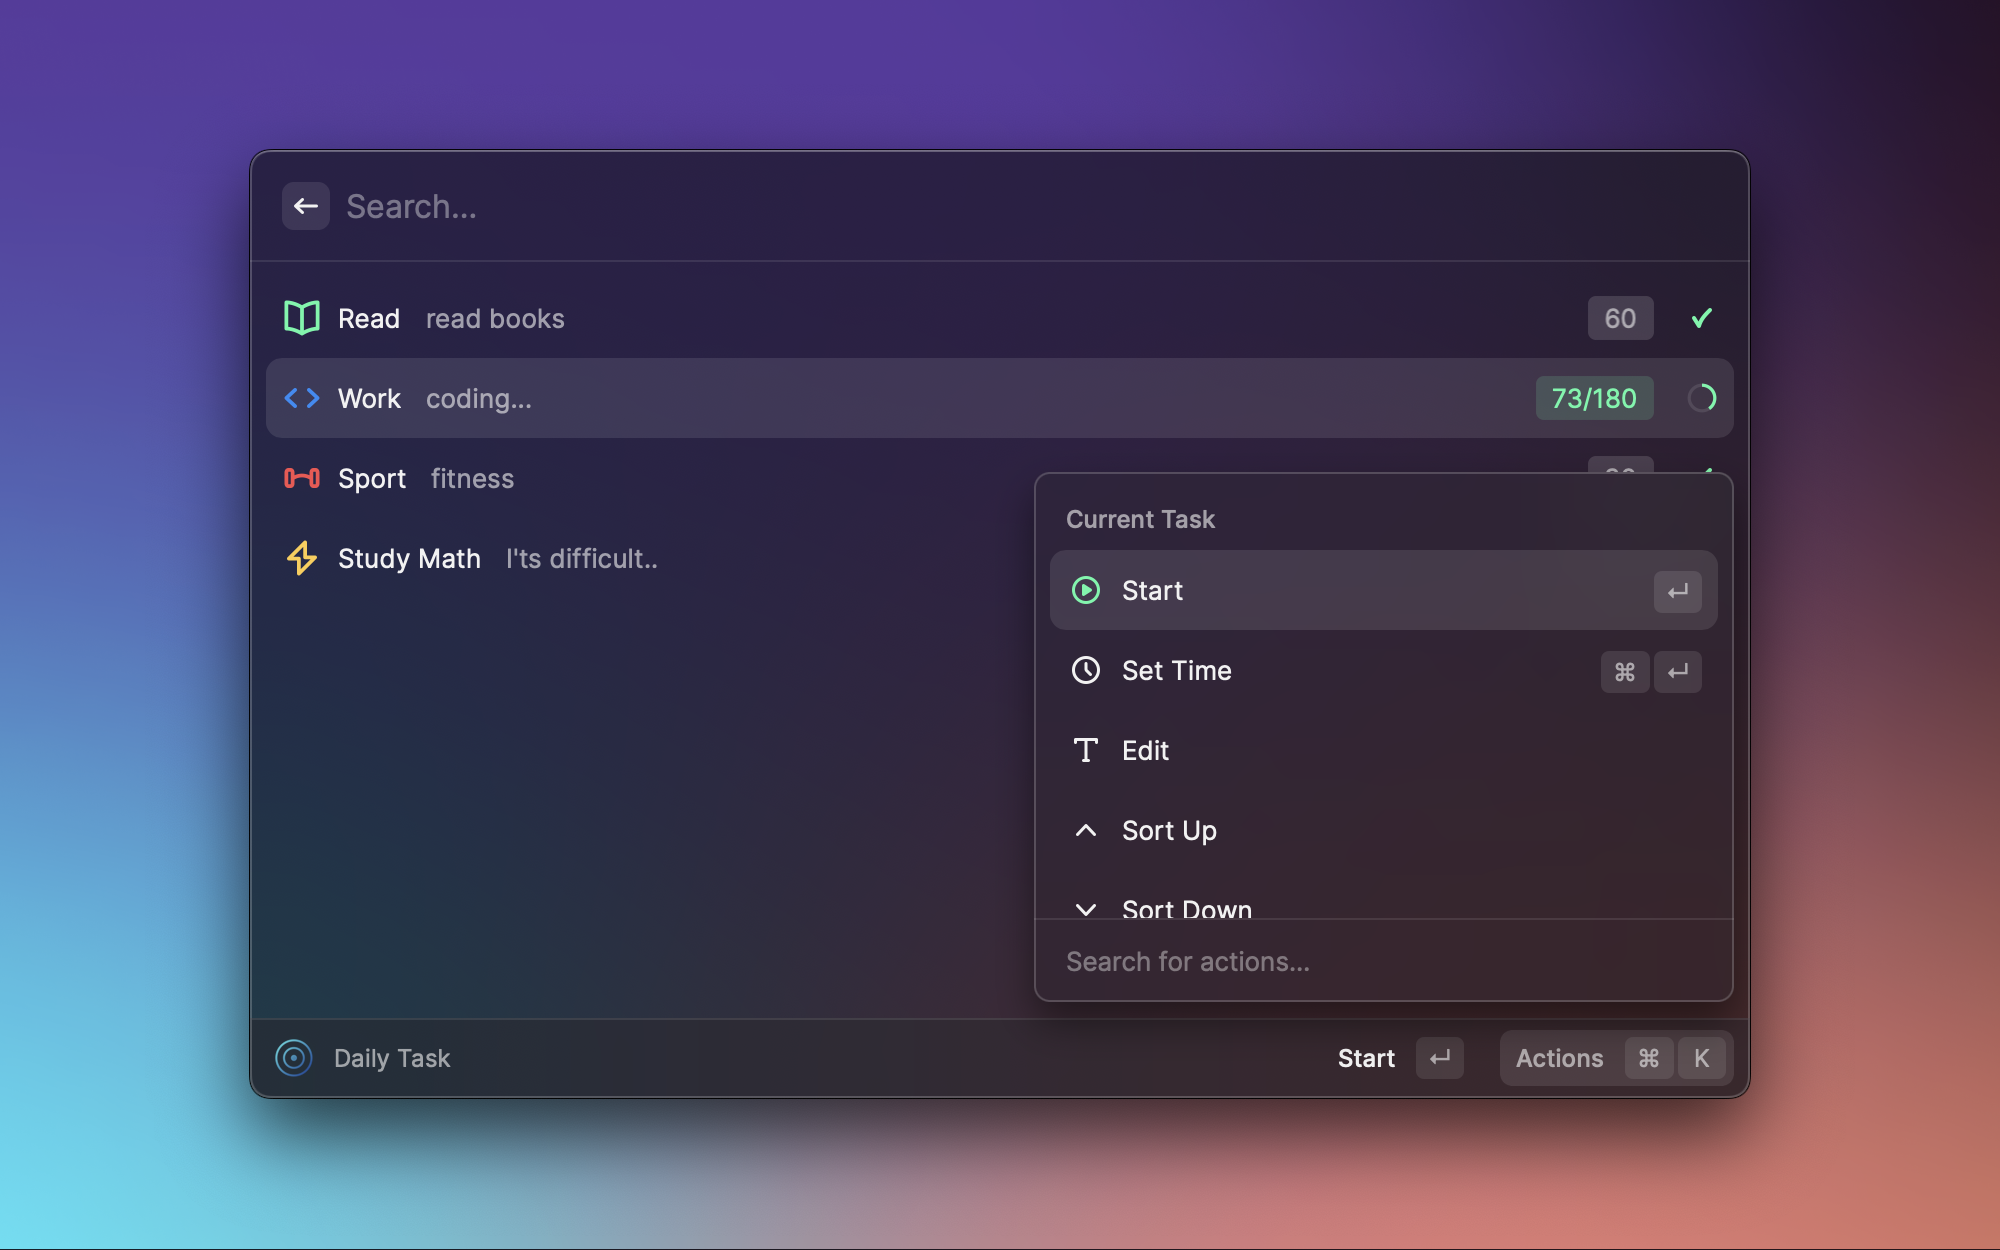
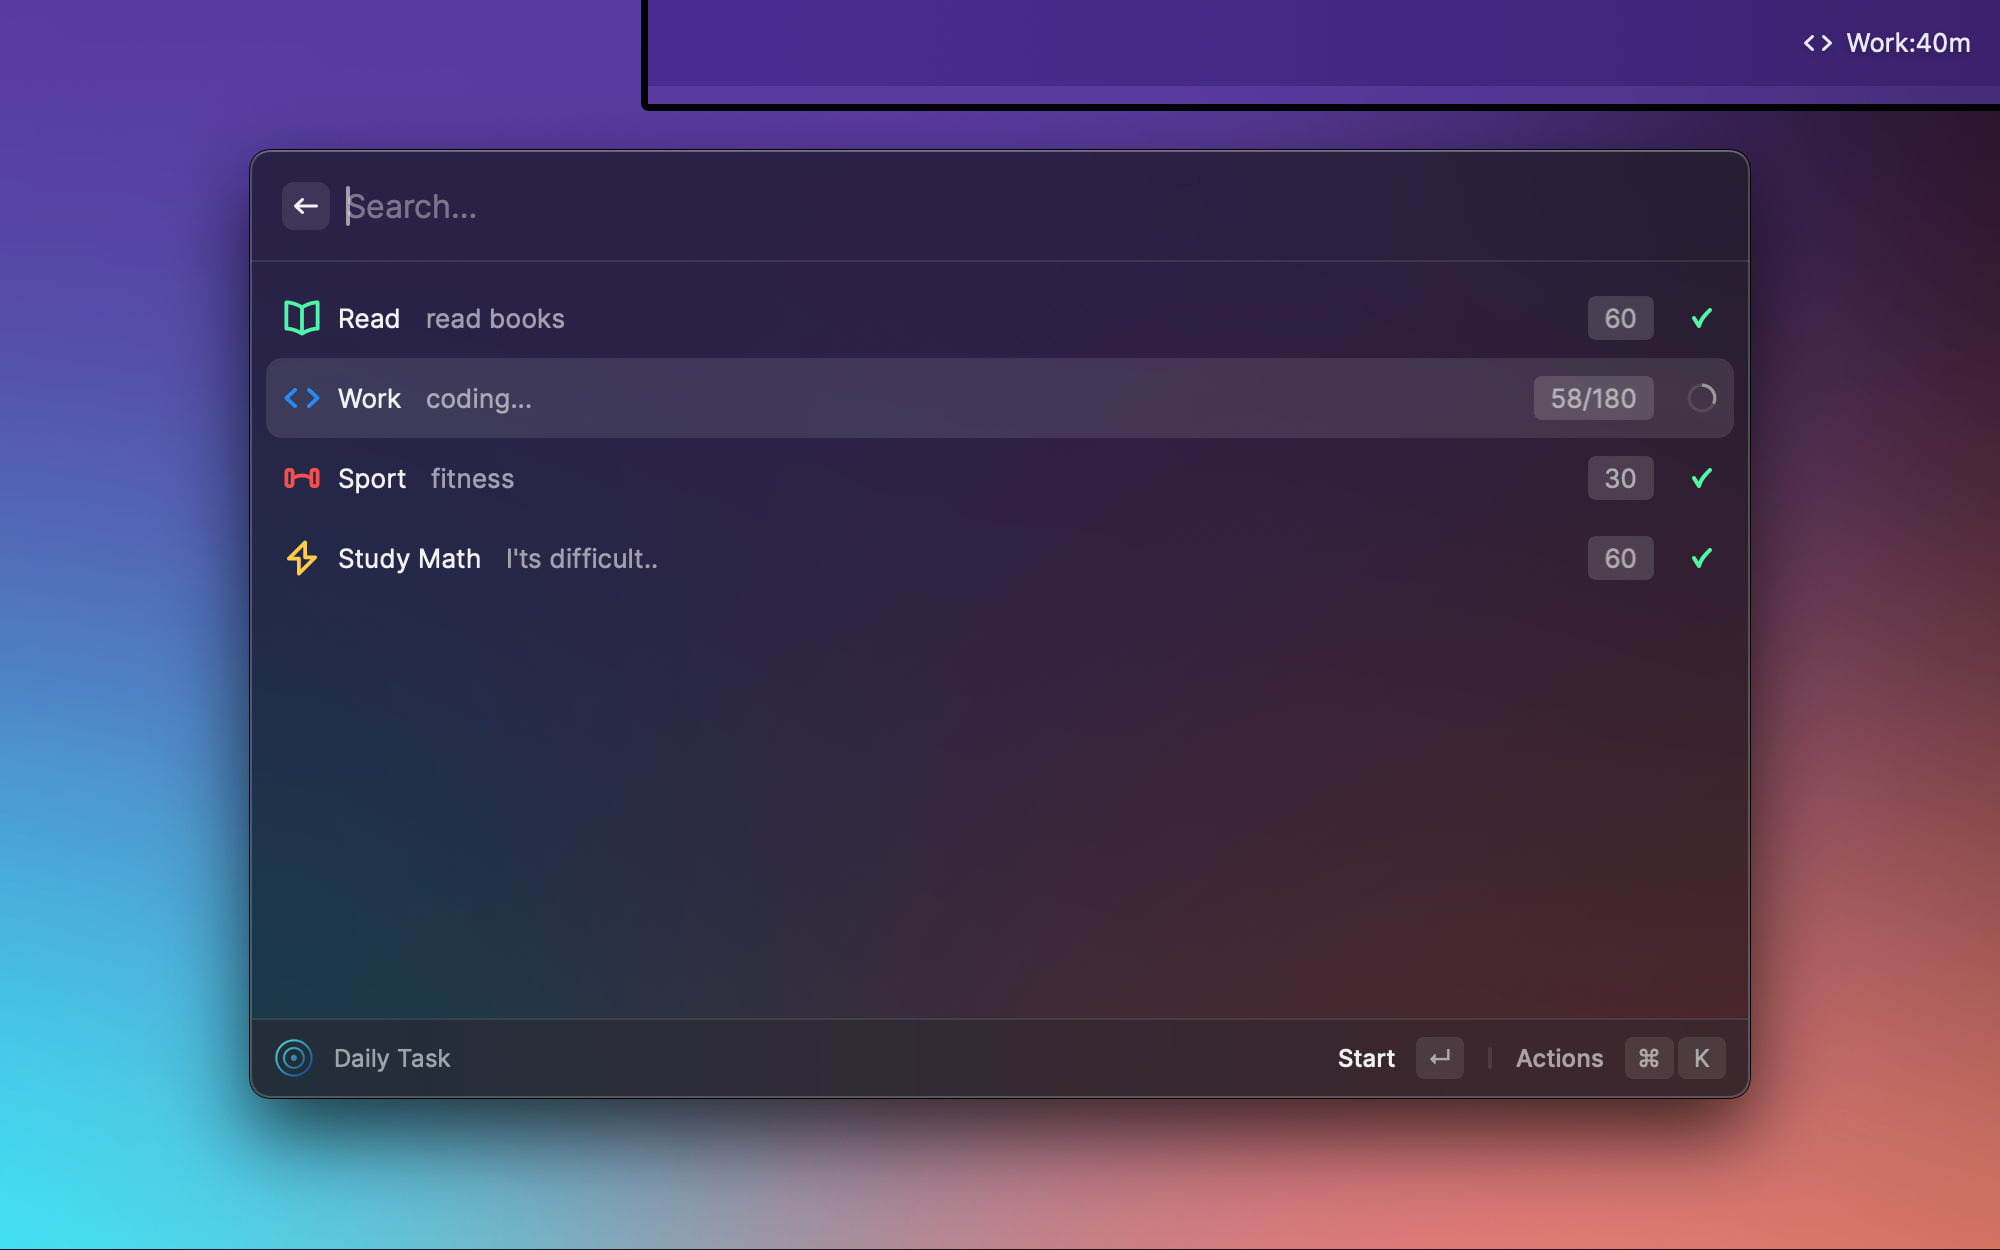
cmt

diff --git a/src/index.tsx b/src/index.tsx
@@ -9,6 +9,7 @@ import {
   LaunchType,
   confirmAlert,
   closeMainWindow,
+  popToRoot,
 } from "@raycast/api";
 import { useAtom } from "jotai";
 import { getProgressIcon } from "@raycast/utils";
@@ -50,6 +51,7 @@ export default function Command() {
       name: "menubar",
       type: LaunchType.UserInitiated,
     });
+    popToRoot({ clearSearchBar: true });
     closeMainWindow();
   };
   const onSetTime = (id: string) => {
@@ -167,6 +169,7 @@ export default function Command() {
               {!task.disabled && (
                 <Action
                   title="Set Time"
+                  shortcut={{ modifiers: ["opt"], key: "t" }}
                   icon={{ source: Icon.Clock }}
                   onAction={() => {
                     onSetTime(task.id);
@@ -175,6 +178,7 @@ export default function Command() {
               )}
               <Action
                 title="Edit"
+                shortcut={{ modifiers: ["opt"], key: "e" }}
                 icon={{ source: Icon.Text }}
                 onAction={() => {
                   onEdit(task.id);
@@ -183,6 +187,7 @@ export default function Command() {
               {index != 0 && (
                 <Action
                   title="Sort Up"
+                  shortcut={{ modifiers: ["ctrl", "opt"], key: "arrowUp" }}
                   icon={{ source: Icon.ChevronUp }}
                   onAction={() => {
                     onSort(task.id, "up");
@@ -192,6 +197,7 @@ export default function Command() {
               {index != DATA.length - 1 && (
                 <Action
                   title="Sort Down"
+                  shortcut={{ modifiers: ["ctrl", "opt"], key: "arrowDown" }}
                   icon={{ source: Icon.ChevronDown }}
                   onAction={() => {
                     onSort(task.id, "down");
@@ -200,6 +206,7 @@ export default function Command() {
               )}
               <Action
                 title="Remove"
+                shortcut={{ modifiers: ["opt"], key: "x" }}
                 icon={{ source: Icon.Trash }}
                 style={Action.Style.Destructive}
                 onAction={() => {
@@ -208,9 +215,15 @@ export default function Command() {
               />
             </ActionPanel.Section>
             <ActionPanel.Section title="More">
-              <Action title="Add" icon={{ source: Icon.PlusCircle, tintColor: Color.Green }} onAction={onAdd} />
+              <Action
+                title="Add"
+                shortcut={{ modifiers: ["opt"], key: "a" }}
+                icon={{ source: Icon.PlusCircle, tintColor: Color.Green }}
+                onAction={onAdd}
+              />
               <Action
                 title="Reset"
+                shortcut={{ modifiers: ["opt"], key: "r" }}
                 icon={{ source: Icon.RotateAntiClockwise, tintColor: Color.Red }}
                 onAction={onReset}
               />

diff --git a/README.md b/README.md
@@ -6,7 +6,24 @@ An extension for manage your Daily Task.
 ![List](./metadata/daily-task-1.png)
 ## Complete
 ![Complete](./metadata/daily-task-2.png)
-## Task Actions
-![Complete](./metadata/daily-task-3.png)
-## More Actions
-![Complete](./metadata/daily-task-4.png)
+## Menubar
+![Menubar](./metadata/daily-task-3.png)
+## Actions
+![Task Actions](./metadata/daily-task-4.png)
+
+## Command
+- Daily Task
+- Show Task Menu Bar
+- Pause Activated Task
+
+## Actions
+- Task Item Actions
+  - Start
+  - Set Time: <kbd>⌥</kbd>+<kbd>T</kbd>
+  - Edit: <kbd>⌥</kbd>+<kbd>E</kbd>
+  - Sort Up: <kbd>⌃</kbd>+<kbd>⌥</kbd>+<kbd>↑</kbd>
+  - Sort Down: <kbd>⌃</kbd>+<kbd>⌥</kbd>+<kbd>↓</kbd>
+  - Remove: <kbd>⌥+X</kbd>
+- More Actions
+  - Add: <kbd>⌥</kbd>+<kbd>A</kbd>
+  - Reset(reset all task progress to 0): <kbd>⌥</kbd>+<kbd>R</kbd>
